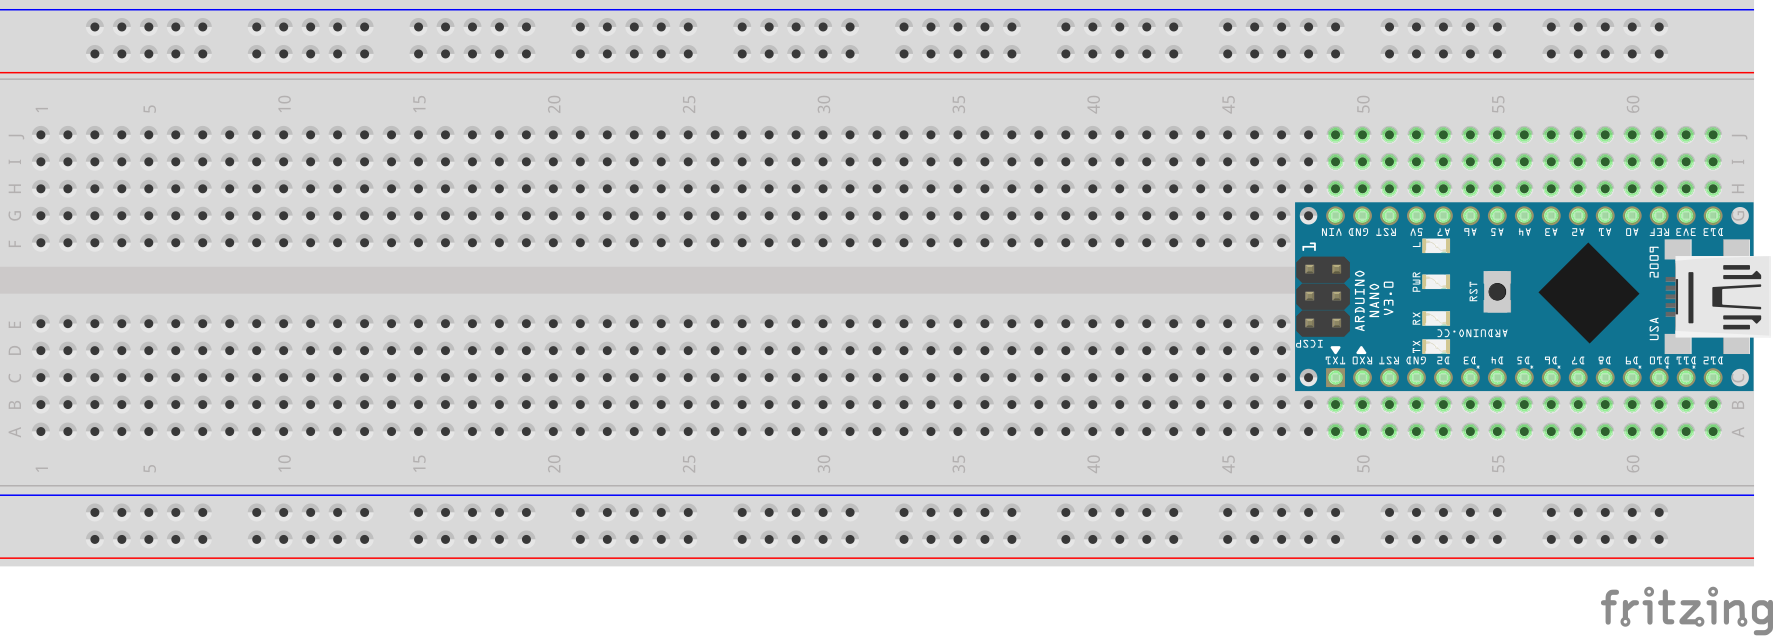
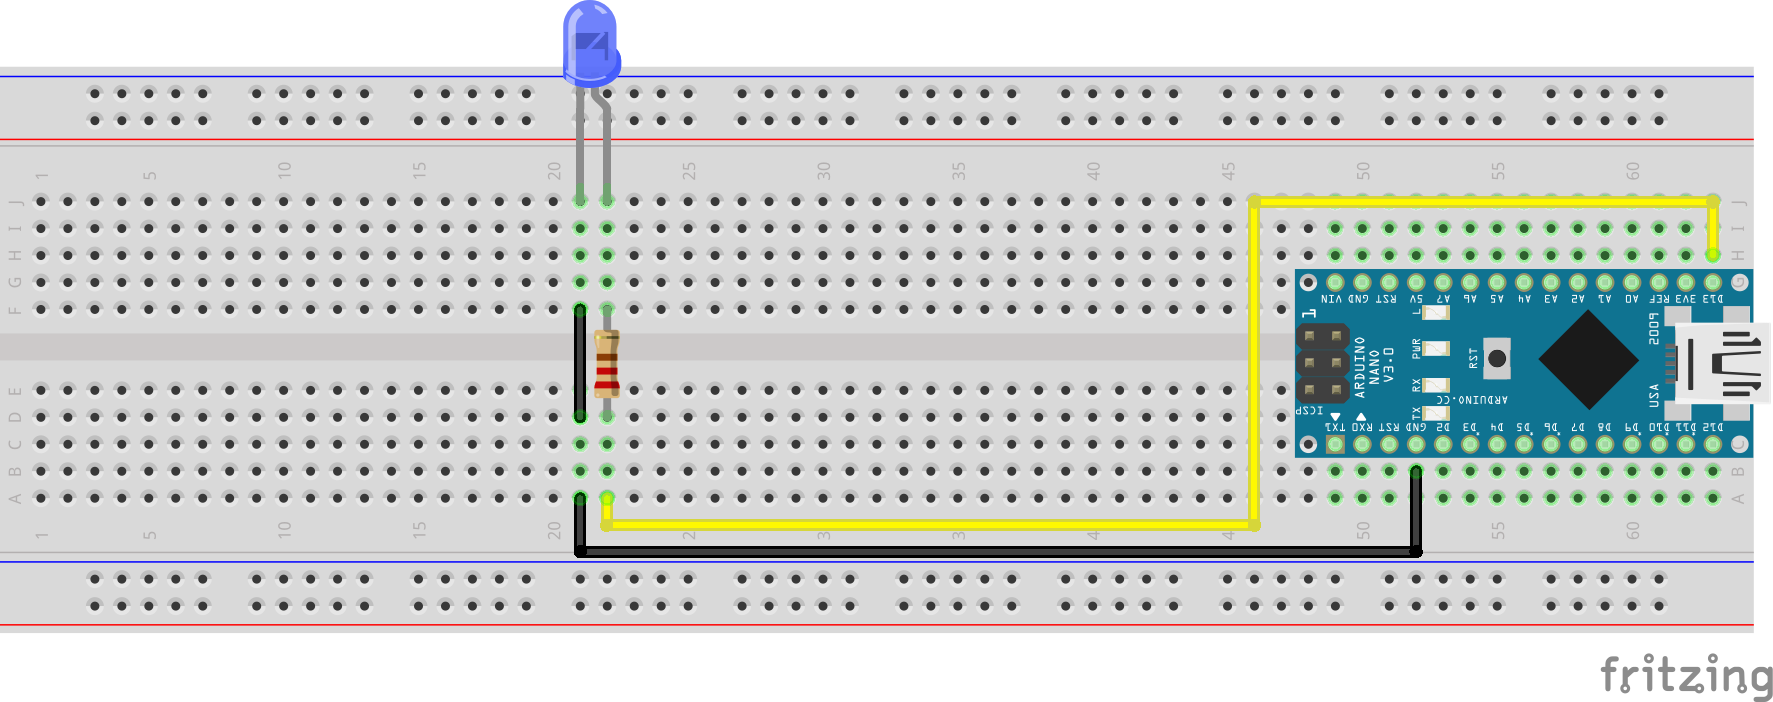
chore: code

diff --git a/O4_2/src/main.c b/O4_2/src/main.c
@@ -11,64 +11,46 @@
 #include <util/setbaud.h>
 #include <util/delay.h>
 
-uint8_t serData = 0;
-
-ISR (USART_RX_vect)
-{
-  serData = UDR0;
-}
-
-void initUSART(void)
-{
-    UBRR0H = UBRRH_VALUE;
-    UBRR0L = UBRRL_VALUE;
-    
-    UCSR0A &= ~(1 << U2X0);
-    UCSR0B = (1 << TXEN0) | (1 << RXEN0);
-    UCSR0C = (1 << UCSZ01) | (1 << UCSZ00);
-}
-
-
-void transmitByte(uint8_t data)
-{
-  loop_until_bit_is_set(UCSR0A, UDRE0);
-  UDR0 = data;
-}
-
-uint8_t receiveByte(void)
-{
-    loop_until_bit_is_set(UCSR0A, RXC0);
-    return UDR0;
-}
-
-//  Example of a useful printing command
-void printString(const char myString[])
-{
-    uint8_t i = 0;
-    
-    while (myString[i])
-    {
-        transmitByte(myString[i]);
-        i++;
-    }
-}
-
+// Main functie.
 int main (void)
 {
+  // Initialiseer de USART.
   initUSART();
 
+  // Defineer de LED pin.
+  DDRB = (1 << PB5);
+
+  // Loop voor altijd.
   while (1)
   {
+    // Lees de ontvangen byte via de seriele communicatie.
     uint8_t received = receiveByte();
 
+    // Controleer of het een a is.
     if (received == 'a')
     {
-        printString("ja");
+        // Geef terug dat het gelukt is.
+        printString("De LED is aan.\n");
+
+        // Zet de LED aan.
+        PORTB = (1 << PB5);
     }
 
+    // Controller of het een u is.
     else if (received == 'u')
     {
-        printString("ja");
+        // Geef terug dat het gelukt is.
+        printString("De LED is uit.\n");
+
+        // Zet de LED aan.
+        PORTB = (0 << PB5);
+    }
+
+    // Anders,
+    else
+    {
+        // Geef aan dat het niet gelukt is.
+        printString("Het is niet gelukt.\n");
     }
   }
 }

diff --git a/O4_2/README.md b/O4_2/README.md
@@ -40,9 +40,12 @@ Het **Fritzing** schema kan ook gedownload worden via de volgende link:
 
 ### Hardware
 
-| Onderdelen                 |
-| -------------------------- |
-| Arduino Nano (v3.0) - 1×   |
+| Onderdelen               |
+| ------------------------ |
+| Arduino Nano (v3.0) - 1× |
+| LED - 1×                 |
+| 220Ω Resistor - 1×       |
+| Dupont Kabel - 3×        |
 
 ## Code
 
